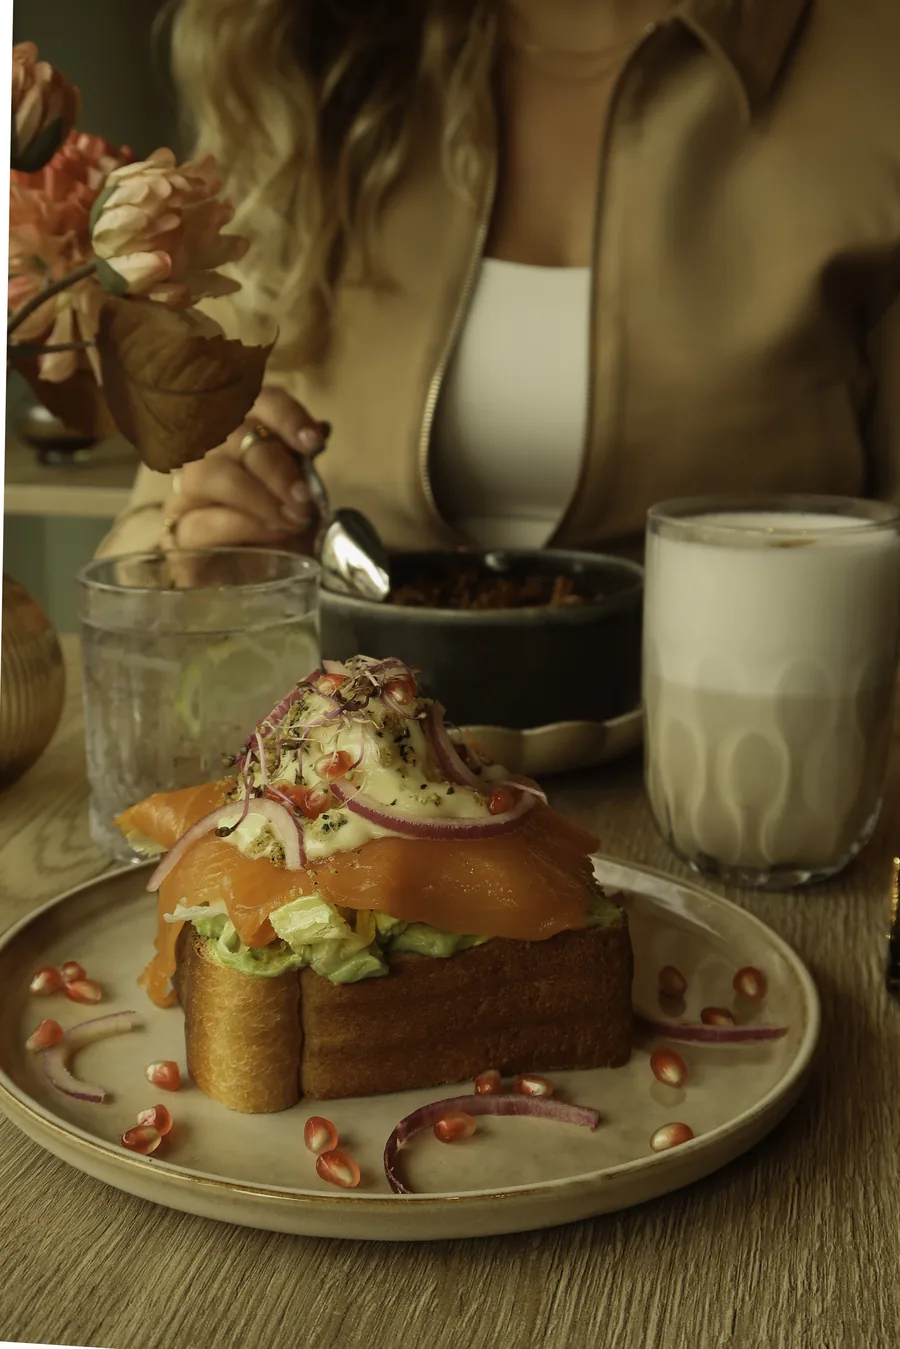
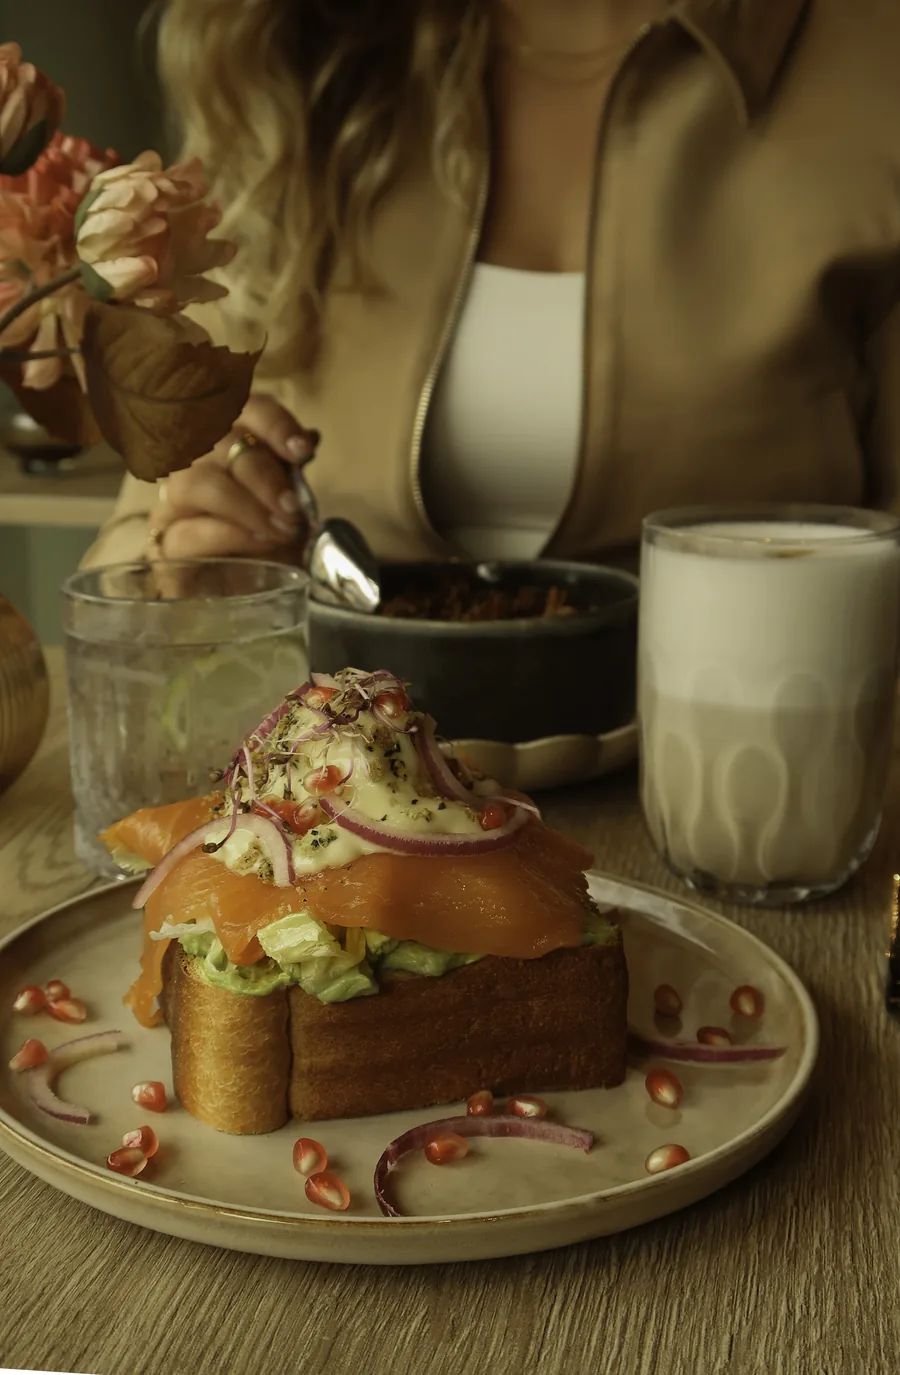
Witte wedge uit Ontbijt-en-lunch en Borrel volledig weggesneden; groene hover-waas op Instagram-tegels weg
Claude-Session: https://claude.ai/code/session_01M57zZywg3nBBRArBqQvFKQ

diff --git a/src/components/site/InstagramFeed.tsx b/src/components/site/InstagramFeed.tsx
@@ -140,9 +140,6 @@ function FeedTegel({
         height={groot ? 1600 : 800}
         className="h-full w-full object-cover transition-transform duration-500 group-hover:scale-[1.04]"
       />
-      <span className="pointer-events-none absolute inset-0 flex items-end bg-[color:var(--olive-deep)]/0 p-4 opacity-0 transition-all duration-300 group-hover:bg-[color:var(--olive-deep)]/70 group-hover:opacity-100 group-focus-visible:bg-[color:var(--olive-deep)]/70 group-focus-visible:opacity-100">
-        <span className="text-sm leading-snug text-[color:var(--cream)]">{post.caption}</span>
-      </span>
     </a>
   );
 }
